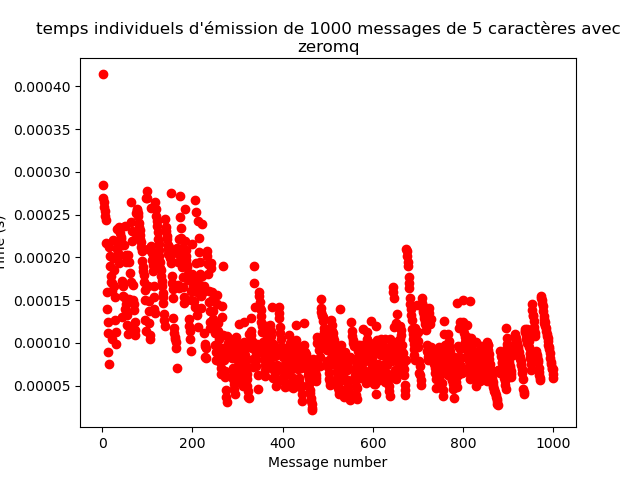
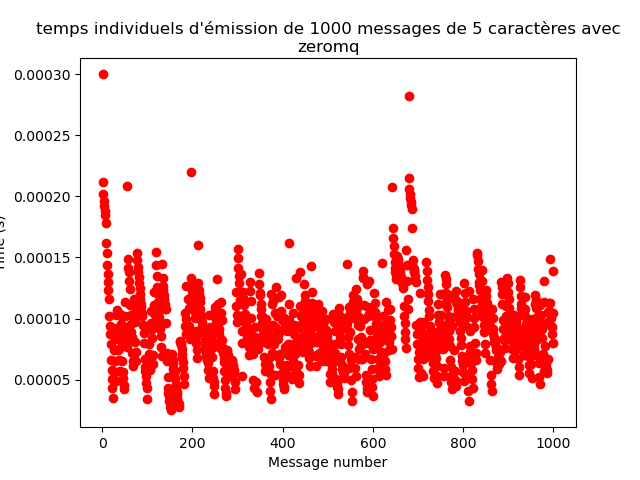
port zmq

diff --git a/main.py b/main.py
@@ -71,13 +71,20 @@ def main():
 
     receive_process = multiprocessing.Process(target=main_receive, args=(param.protocol, param.message_count, param.port,param.length, queue, logger))
     send_process = multiprocessing.Process(target=main_send, args=(param.protocol, param.message_count, param.port, param.length, queue, logger, param.sleep))
-    receive_process.start()
+    '''receive_process.start()
     #sleep(2)
     send_process.start()
-
-
+    receive_process2 = multiprocessing.Process(target=main_receive, args=(param.protocol, param.message_count, 3000,param.length, queue, logger))
+    send_process2 = multiprocessing.Process(target=main_send, args=(param.protocol, param.message_count, 3000, param.length, queue, logger, param.sleep))
+    
+    receive_process2.start()
+    send_process2.start()
+'''
     send_process.join()
     receive_process.join()
+
+#    send_process2.join()
+#   receive_process2.join()
 
     send_process.kill()
     receive_process.kill()

diff --git a/main_receive.py b/main_receive.py
@@ -16,12 +16,11 @@ def main_receive(protocol, message_count, port, length, queue, logger):
     
     com = "sub"
     if protocol == 'ivy':
-        args = sys.argv[4:]
-        print(args)
         protocol_obj = IvyProtocol(port, logger)
         protocol_obj.initialize()
     elif protocol == 'zeromq':
-        port = sys.argv[4]
+        port = int(port)
+        #port +=1
         protocol_obj = ZeroMQProtocol(port, com,logger)
         protocol_obj.initialize()
     elif protocol == 'kafka':

diff --git a/main_send.py b/main_send.py
@@ -28,8 +28,8 @@ def main_send(protocol, message_count, port,length, queue, logger, traitement):
         protocol_obj.initialize()
 
     elif protocol == 'zeromq':
-        port = sys.argv[4]
-        
+        port = int(port) 
+        #port+=1       
         protocol_obj = ZeroMQProtocol(port, com,logger)
         protocol_obj.initialize()
     elif protocol == 'kafka':

diff --git a/zeromq.py b/zeromq.py
@@ -6,7 +6,7 @@ from time import sleep
 
 class ZeroMQProtocol(AbstractProtocol):
     def __init__(self, port, com, logger):
-        self.port = int(port)
+        self.port = port
         self.socket = None
         self.com = com
         self.plt_data = []
